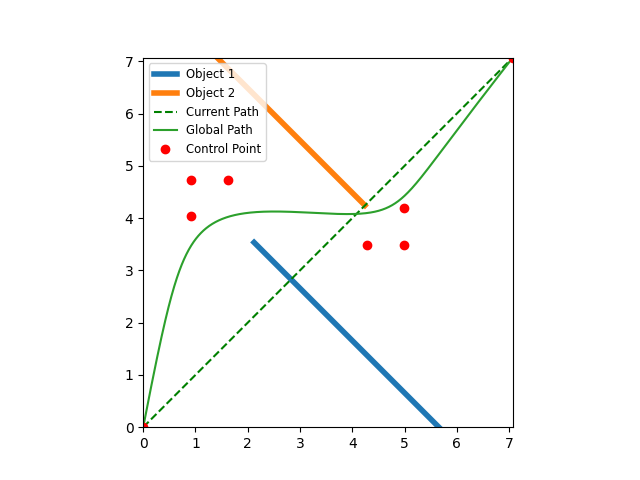
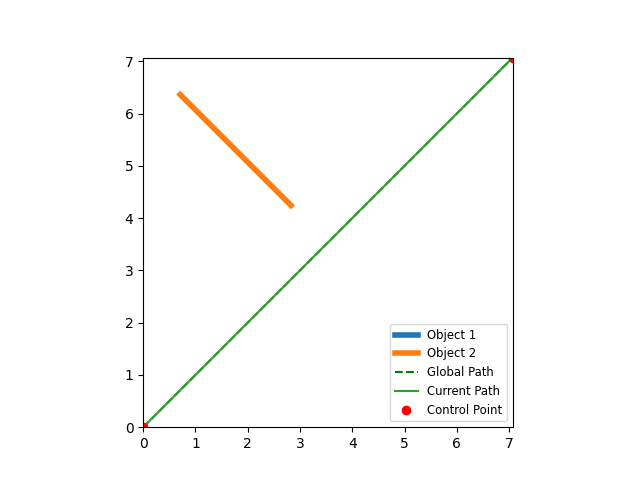
GUI DOnegit add .git add .

diff --git a/bezier_visualization.py b/bezier_visualization.py
@@ -97,7 +97,7 @@ class Visualization:
             nt_ctr = self.curveas.convert_nt(ctr_points[x][0], ctr_points[x][1])
             plt.plot(nt_ctr[0], nt_ctr[1], "ro")
             ind += 1
-        self.labels.extend(["Current Path", "Global Path", "Control Point"])
+        self.labels.extend(["Global Path", "Current Path", "Control Point"])
         plt.legend(self.labels, prop=self.fontP)
 
         # Sets the plot axis to not be dumb
@@ -143,6 +143,13 @@ class Visualization:
             self.y_vals.append(curpoint[1][0])
             index += self.resolution
 
+    def is_obstacle_block(self):
+        obst_block = []
+        for obstacle in self.curveas.obstacles:
+            if obstacle.intersect(self.x_vals, self.y_vals):
+                obst_block.append(obstacle)
+        return obst_block
+
     def create_environment(self):
         """
         Creates obstacles and heuristically produces curve by continuous calls to `calculate_curve()`
@@ -150,7 +157,7 @@ class Visualization:
         :return:
         """
         # Temporarily reassigns the global variable `resolution` to get a rough sketch of the graph
-        self.resolution = 0.4
+        self.resolution = 0.001
         self.get_data()
         self.curveas.clear_obstacles()
         # Creates objects
@@ -165,15 +172,16 @@ class Visualization:
             # Allows for computation of control points if and only if the curve intersects the object
             self.labels.append("Object " + str(ind))
             obstacle.next_side(self.curveas.extrema[0], self.curveas.extrema[1])
-            while obstacle.intersect(self.x_vals, self.y_vals):
-                obstacle.adjust_gamma()
-                self.calculate_curve()
-                count += 1
-                if count > lim:
-                    break
             ind += 1
-        self.resolution = 0.001
-        self.calculate_curve()
+        block_list = self.is_obstacle_block()
+        while block_list:
+            for obstacle in block_list:
+                obstacle.adjust_gamma()
+            self.calculate_curve()
+            count += 1
+            if count > lim:
+                break
+            block_list = self.is_obstacle_block()
         self.plot()
 
 

diff --git a/GUI.py b/GUI.py
@@ -9,7 +9,7 @@ from kivy.clock import Clock
 from kivy.properties import NumericProperty
 from bezier_visualization import Visualization as Graph
 
-obstacle_data = [[4.0, 1.0, 6.0], [6.0, 4.0, 4.0]]
+obstacle_data = []
 resolution = 10
 
 
@@ -153,6 +153,12 @@ class NoScaleButton(Button):
         img.source = "plot.png"
         img.reload()
 
+    def download_data(self):
+        lines = [resolution, obstacle_data]
+        graph = Graph(lines)
+        graph.create_environment()
+        file = open("output_data.txt", "w")
+        file.write(str(graph.get_bez_vals()))
 
 
 class Content(BoxLayout):

diff --git a/Obstacle.py b/Obstacle.py
@@ -49,7 +49,6 @@ class Obstacle:
         self.control_points.append([x, y])
         self.control_points.append([x - (0.5 * self.side), y - (0.5 * self.side)])
         self.control_points.append([x + (0.5 * self.side), y - (0.5 * self.side)])
-        # self.control_points.append([self.edge_points[0][ref_point], self.edge_points[1][ref_point]])
 
     # Determines if a set of x and y coordinates at any point intersect with the obstacle
     def intersect(self, xs, ys):
